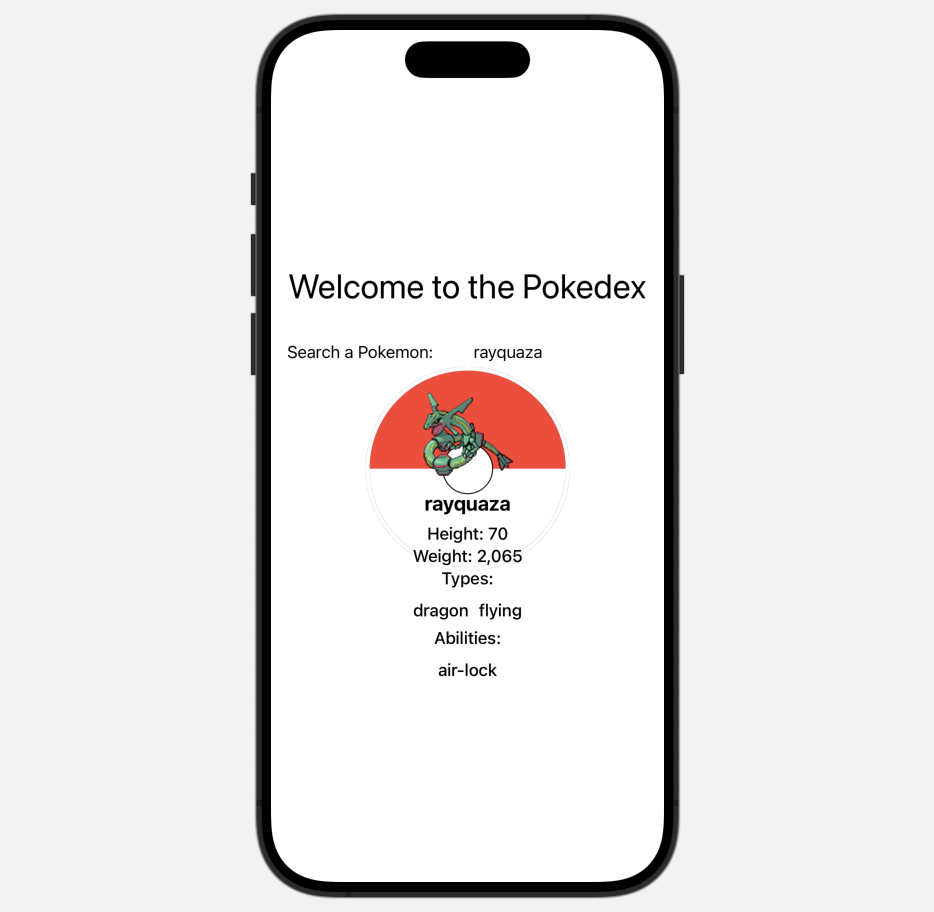
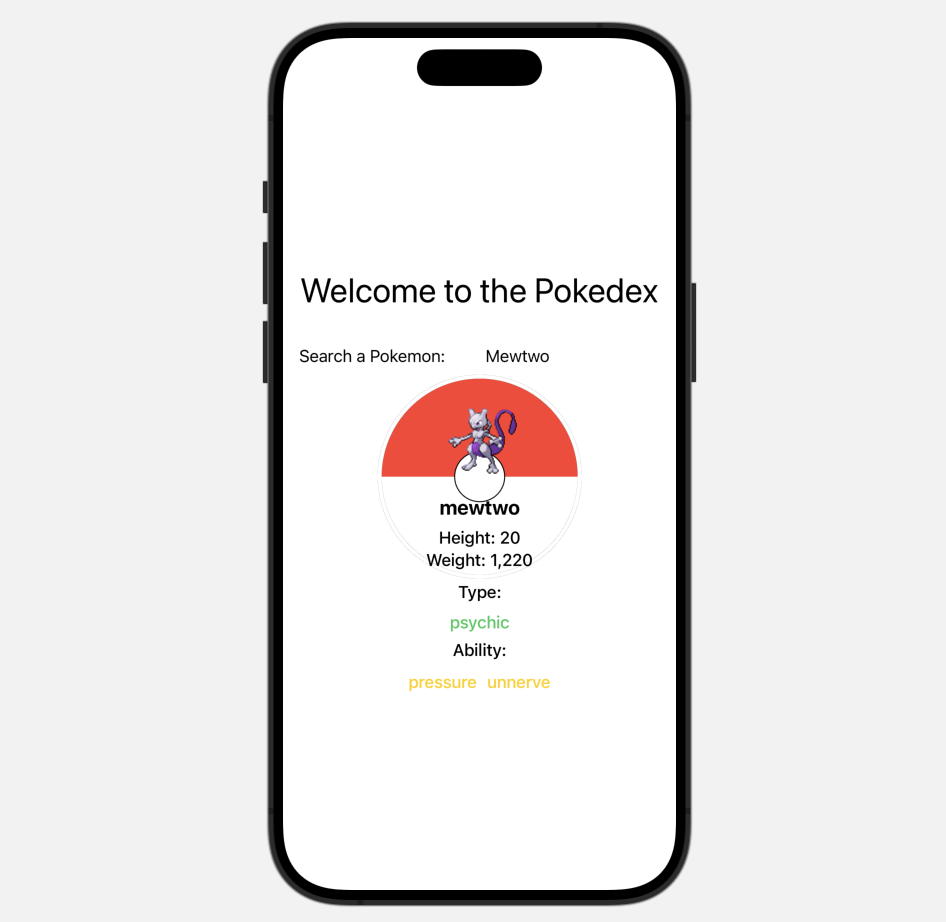
update

Changed region(s): [[0.2484, 0.0, 0.7452, 1.0]]

diff --git a/pokedexInSwiftUI/ContentView.swift b/pokedexInSwiftUI/ContentView.swift
@@ -70,22 +70,25 @@ struct ContentView: View {
                                     }
                                 }
                             }
-                            Text("Types:")
+                            Text("Type:")
                                 .font(Font.body.weight(.medium))
+                                .padding(1)
                             HStack {
                                 ForEach(viewModel.pokemonType ?? [], id: \.self) { type in
                                     Text(type)
                                         .padding(1)
                                         .font(Font.body.weight(.medium))
+                                        .foregroundColor(.green)
                                 }
                             }
-                            Text("Abilities:")
+                            Text("Ability:")
                                 .font(Font.body.weight(.medium))
                             HStack {
                                 ForEach(viewModel.pokemonAbility ?? [], id: \.self) { ability in
                                     Text(ability)
                                         .padding(1)
                                         .font(Font.body.weight(.medium))
+                                        .foregroundColor(.yellow)
                                 }
                             }
                         }else {
